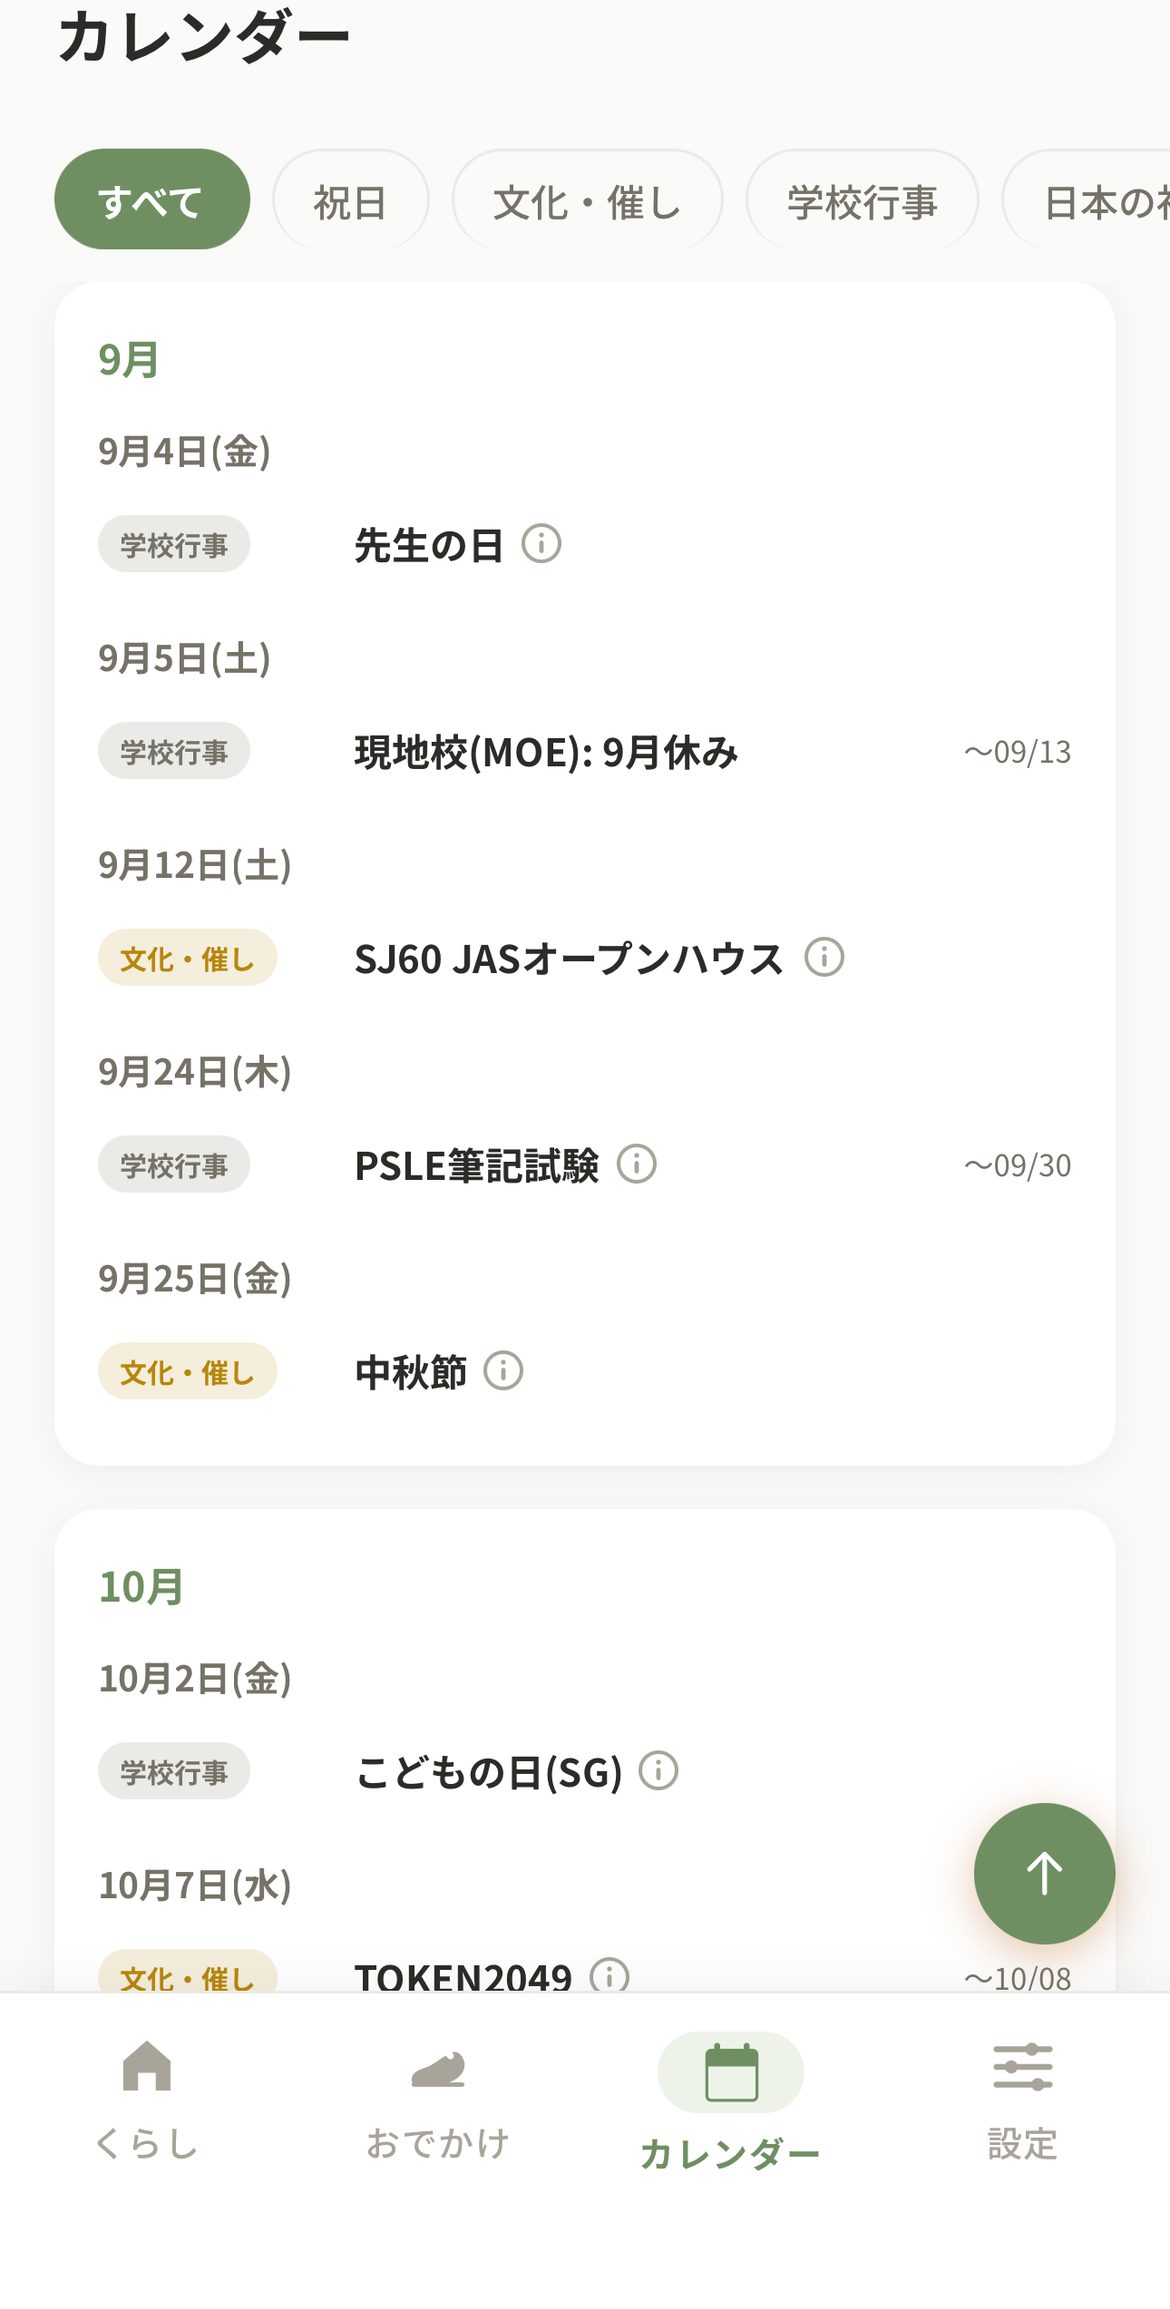
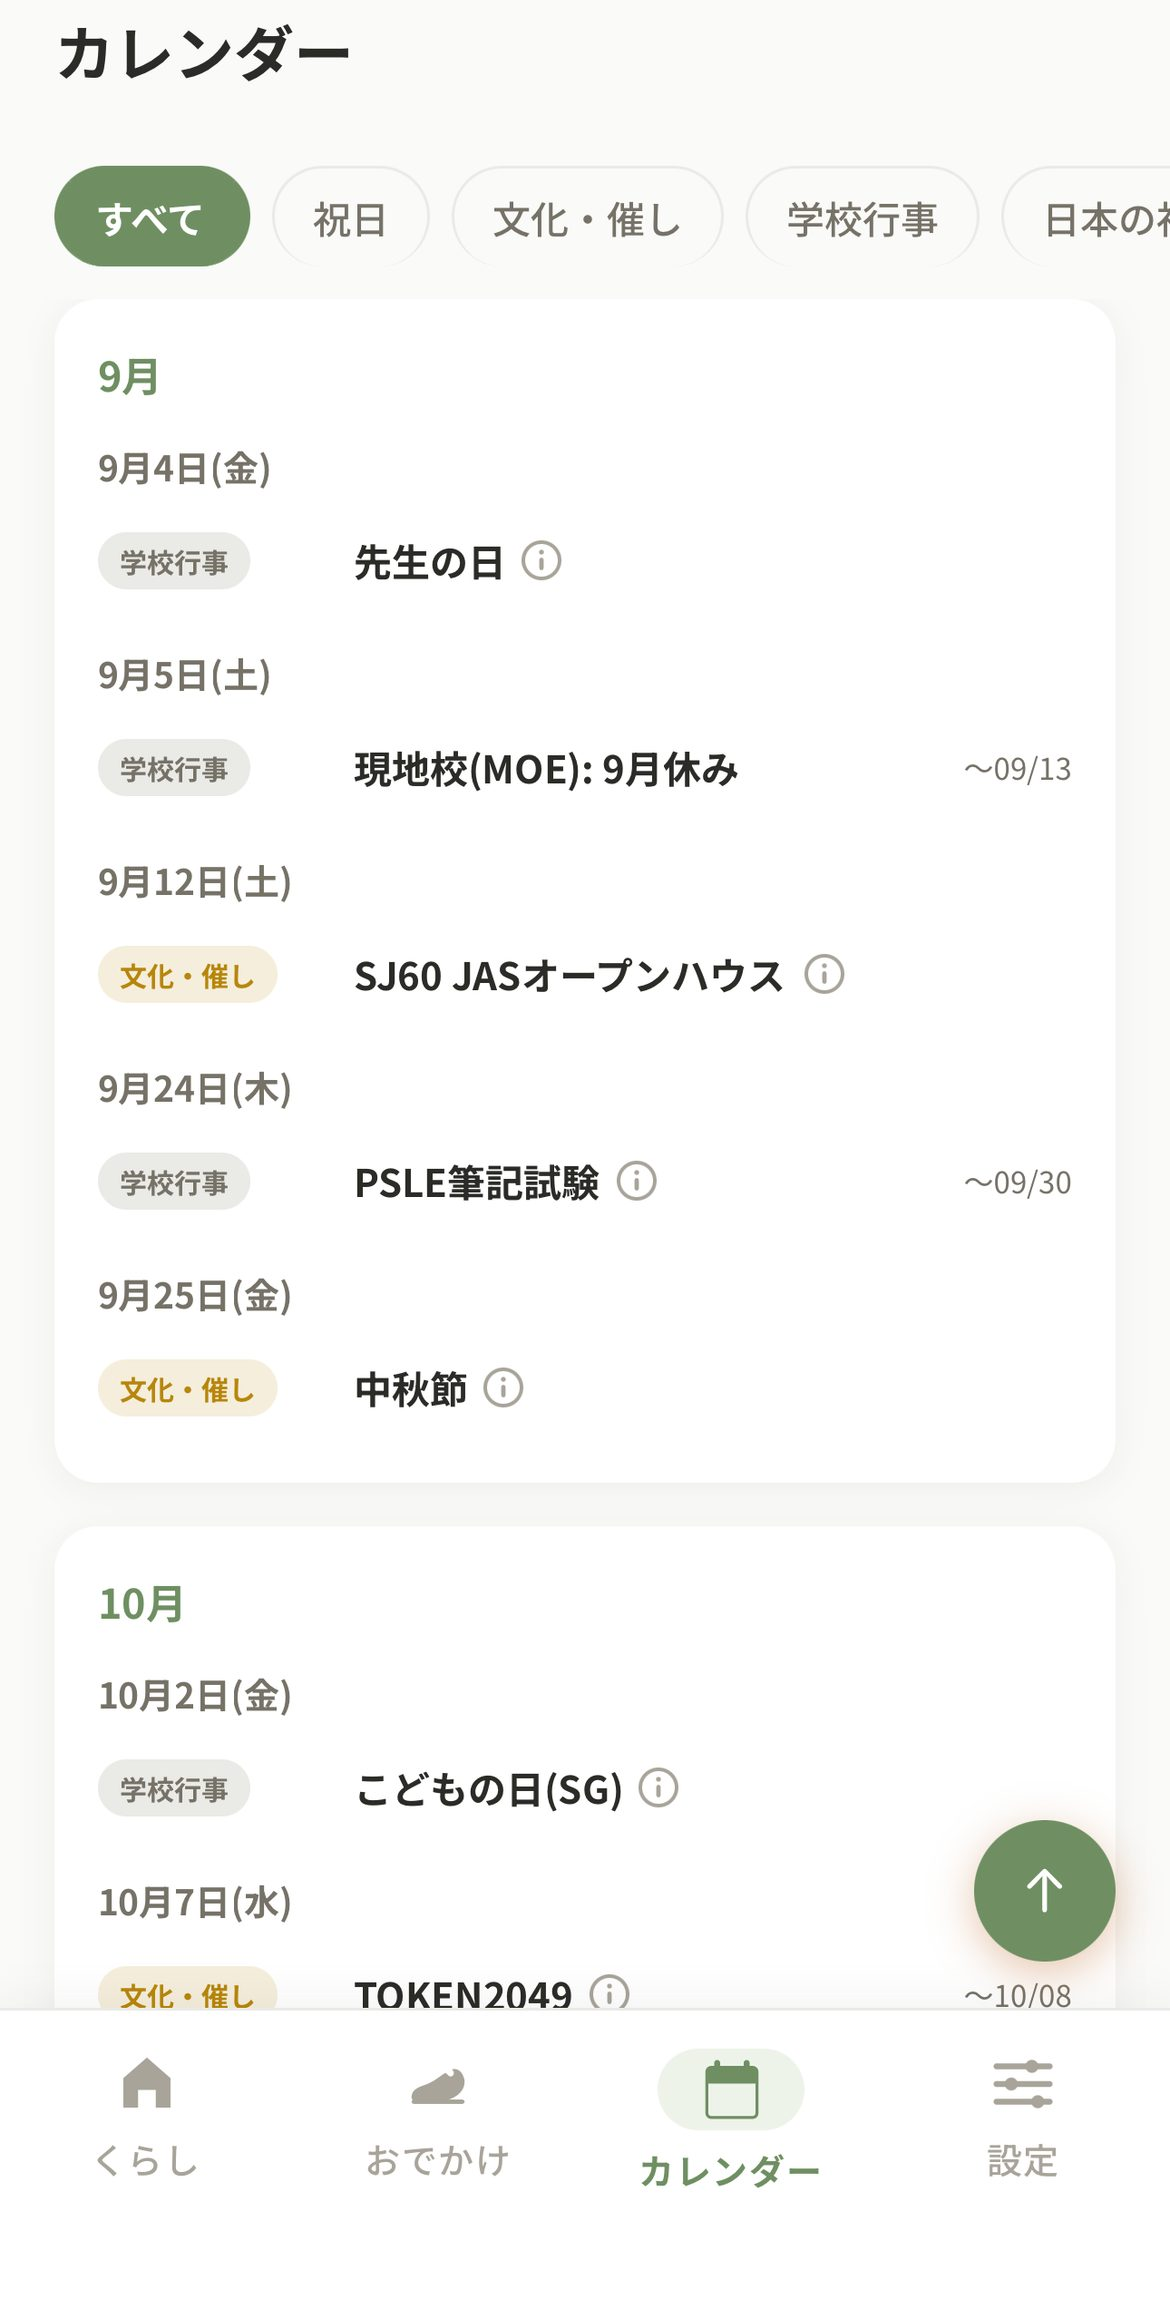
fix(about): スマホモックアップのスクリーンショットを再クロップしタイトル上に自然な余白を追加
タイトル真上ギリギリでクロップしていたスクリーンショット4枚を、ステータス
バーを含まない範囲でタイトル上端から約30px上の位置まで再クロップし、CSS
のpadding-topによる疑似余白ではなく画像自体に本来の余白を持たせた。あわ
せて.phoneのpadding-top(14px)を通常のpadding(10px)に統一し、余白の二重
加算を解消。

Claude-Session: https://claude.ai/code/session_01GSgz9PjvrBMXpjy7BmpkC7

diff --git a/public/about.html b/public/about.html
@@ -151,7 +151,6 @@
       background: #DCE5D6;
       border-radius: 26px;
       padding: 10px;
-      padding-top: 14px;
       box-shadow: 0 24px 60px rgba(82,112,74,0.18), 0 8px 20px rgba(82,112,74,0.1);
     }
     .phone-img-wrap {
@@ -372,7 +371,7 @@
       <div class="mockup-item">
         <div class="phone">
           <div class="phone-img-wrap">
-            <img src="/screenshots/screen-news.jpg?v=4" alt="くらし情報">
+            <img src="/screenshots/screen-news.jpg?v=5" alt="くらし情報">
           </div>
         </div>
         <div class="mockup-label">くらし情報</div>
@@ -382,7 +381,7 @@
       <div class="mockup-item">
         <div class="phone">
           <div class="phone-img-wrap">
-            <img src="/screenshots/screen-home.jpg?v=4" alt="おでかけ情報">
+            <img src="/screenshots/screen-home.jpg?v=5" alt="おでかけ情報">
           </div>
         </div>
         <div class="mockup-label">おでかけ情報</div>
@@ -392,7 +391,7 @@
       <div class="mockup-item">
         <div class="phone">
           <div class="phone-img-wrap">
-            <img src="/screenshots/screen-calendar.jpg?v=2" alt="カレンダー">
+            <img src="/screenshots/screen-calendar.jpg?v=3" alt="カレンダー">
           </div>
         </div>
         <div class="mockup-label">カレンダー</div>
@@ -402,7 +401,7 @@
       <div class="mockup-item">
         <div class="phone">
           <div class="phone-img-wrap">
-            <img src="/screenshots/screen-pins.jpg?v=4" alt="ピン留めで整理">
+            <img src="/screenshots/screen-pins.jpg?v=5" alt="ピン留めで整理">
           </div>
         </div>
         <div class="mockup-label">ピン留めで整理</div>
